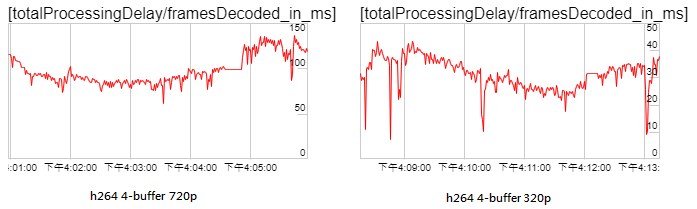
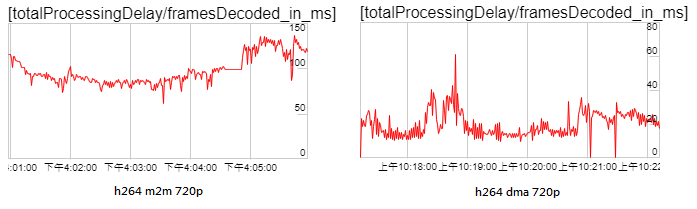
chore: add dma data

Changed region(s): [[0.5122, 0.0287, 0.9943, 0.8325], [0.6327, 0.89, 0.8135, 0.9761], [0.1205, 0.89, 0.3013, 0.9761]]

diff --git a/README.md b/README.md
@@ -22,7 +22,7 @@ Step of using signalr as the webrtc signaling server
 ## Summary
 * Latency is about 0.2 seconds delay.
 * Temperatures up to 60~65°C.
-* CPU is ~60% at 1280x720 30fps.
+* Using HW DMA sources minimizes CPU usage and latency.
 
 | Codec | Source format | Resolution | FPS | CPU  |  Latency  | Temperature |
 | :---: | :-----------: | :--------: | :-: | :--: | :-------: | :---------: |
@@ -35,7 +35,7 @@ Step of using signalr as the webrtc signaling server
 |  H264 |    YUV420     |  1280x720  |  15 | ~20% | 300~350ms |             |
 |  H264 |    YUV420     |   640x480  |  15 | ~20% | 200~220ms |             |
 |  H264 |    YUV420     |   320x240  |  30 | ~15% | 190~200ms |             |
-|    -  |   **H264**    |  1280x720  |  30 | ~25% | ~250ms |             |
+|  H264 |    **DMA**    |  1280x720  |  30 | ~20% |     ~50ms |             |
 
 ![latency](./doc/latency.jpg)
 ![latency](./doc/latency_chart.png)
